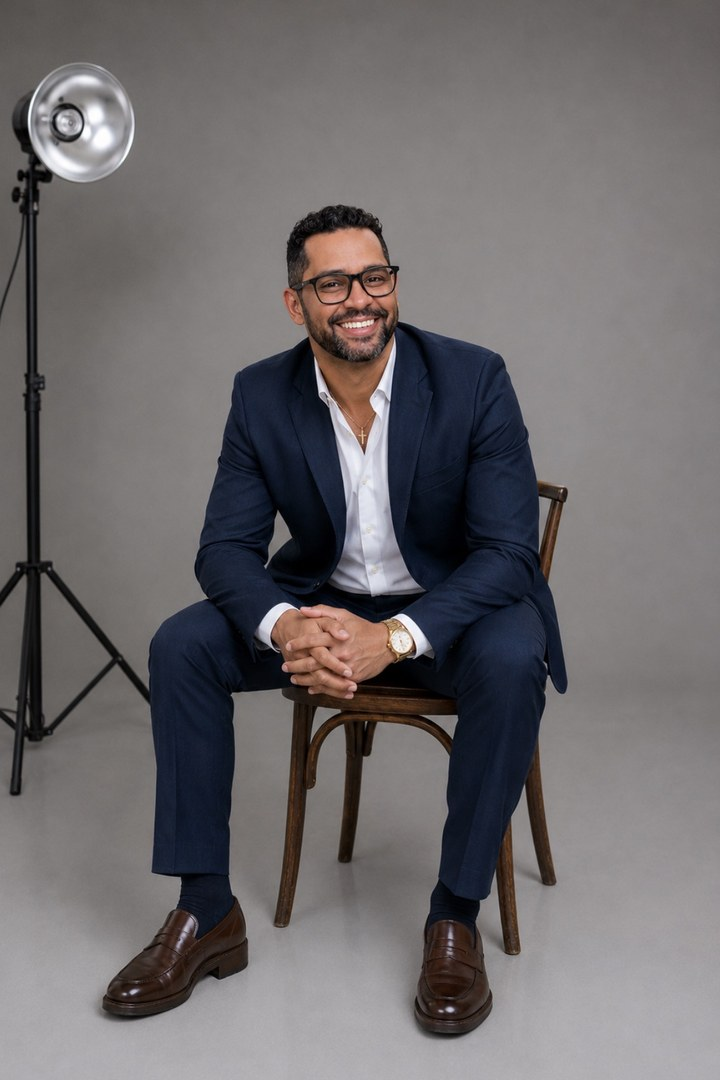
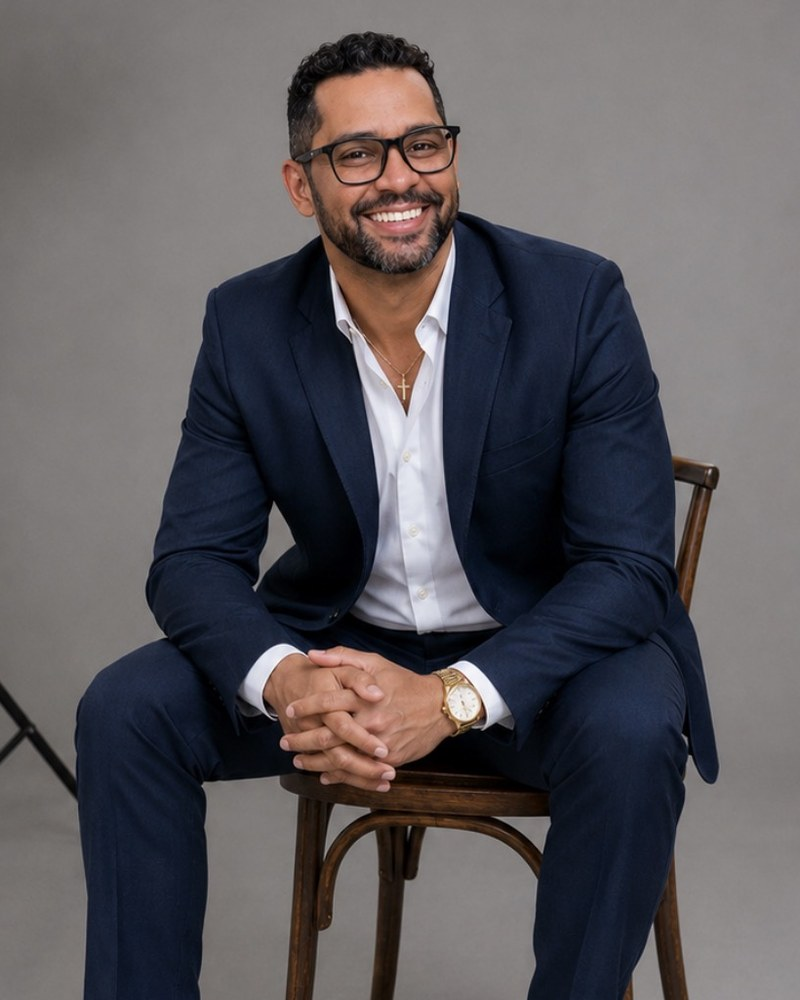
Fotos da seção Sobre com corte mais fechado
Claude-Session: https://claude.ai/code/session_011iCcgfyM5SnFDP5Poi8jR6

diff --git a/index.html b/index.html
@@ -59,7 +59,7 @@
 </div></section>
 
 <section class="sec"><div class="wrap split">
-  <div class="duo"><img src="img/sobre-1.jpg" alt="Thiago Barreto, advogado, de terno azul-marinho" width="720" height="1080" loading="lazy"><img src="img/sobre-2.jpg" alt="Thiago Barreto, advogado, de terno cinza" width="720" height="1080" loading="lazy"></div>
+  <div class="duo"><img src="img/sobre-1.jpg" alt="Thiago Barreto, advogado, de terno azul-marinho" width="800" height="1000" loading="lazy"><img src="img/sobre-2.jpg" alt="Thiago Barreto, advogado, de terno cinza" width="800" height="1000" loading="lazy"></div>
   <div><span class="eyebrow">SOBRE</span><h2>Thiago Barreto, <em>advogado</em></h2><div class="rule"></div>
     <p style="font-size:18px">Advogado com atuação em Pernambuco e Sergipe e atendimento online para todo o Brasil, com foco na defesa de consumidores e aposentados lesados por instituições financeiras, em benefícios do INSS e em questões de família.</p>
     <p style="color:var(--soft)">Passou pelo Ministério Público de Pernambuco, tem pós-graduações em Advocacia contra Bancos, Direito Previdenciário, Direito de Família e Sucessões e Juizados Especiais, e é autor de artigo científico sobre os direitos das pessoas com Transtorno do Espectro Autista.</p>

diff --git a/css/site.css b/css/site.css
@@ -204,6 +204,6 @@ details.menu[open] summary{background:#1d1b22}
 /* deixa espaço para o selo do Netlify no canto */
 .fab{bottom:78px}
 .duo{display:grid;grid-template-columns:1fr 1fr;gap:18px;max-width:520px;margin:0 auto;width:100%}
-.duo img{width:100%;height:auto;aspect-ratio:2/3;object-fit:cover;border-radius:10px;border:1.5px solid var(--gold2);padding:5px;background:#fff;box-shadow:0 18px 40px -22px rgba(0,0,0,.45)}
+.duo img{width:100%;height:auto;aspect-ratio:4/5;object-fit:cover;border-radius:10px;border:1.5px solid var(--gold2);padding:5px;background:#fff;box-shadow:0 18px 40px -22px rgba(0,0,0,.45)}
 .duo img:nth-child(2){margin-top:44px}
 @media(max-width:900px){.duo{max-width:360px;gap:12px}.duo img:nth-child(2){margin-top:30px}}
